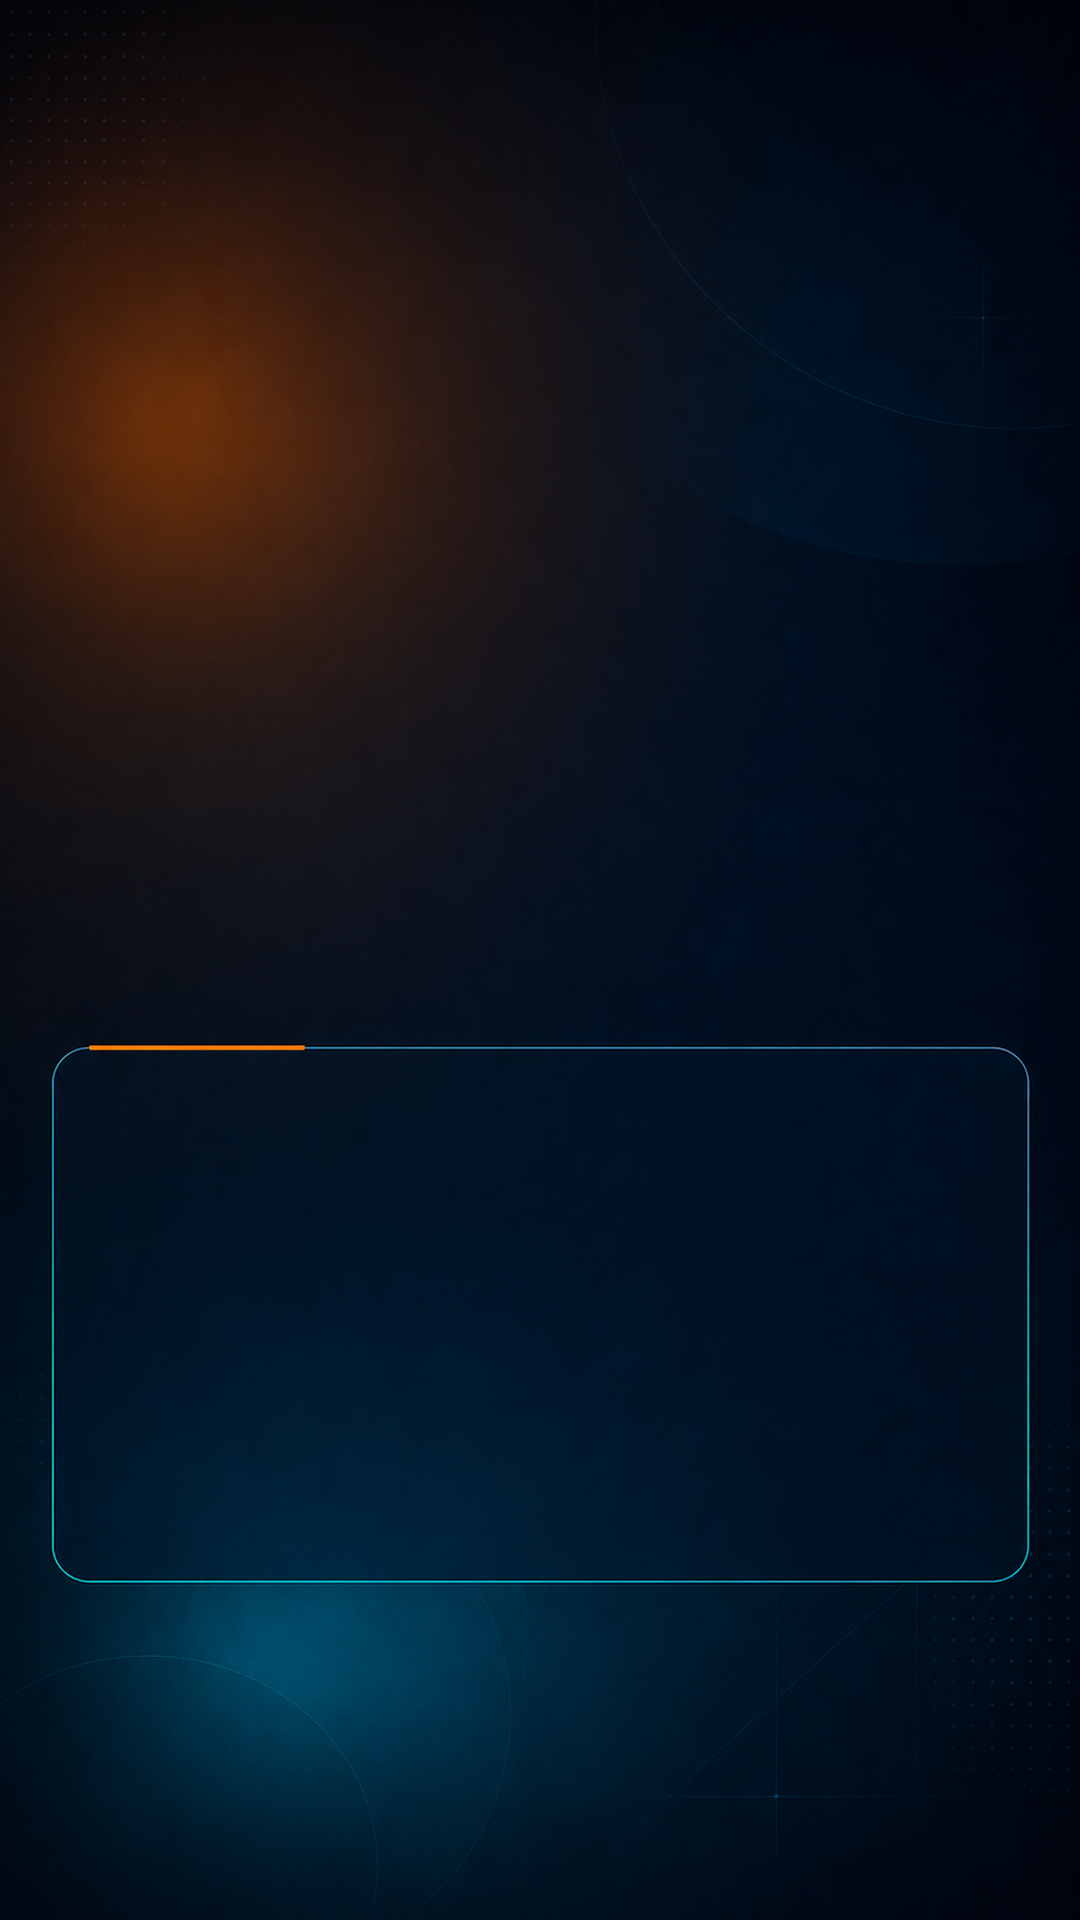
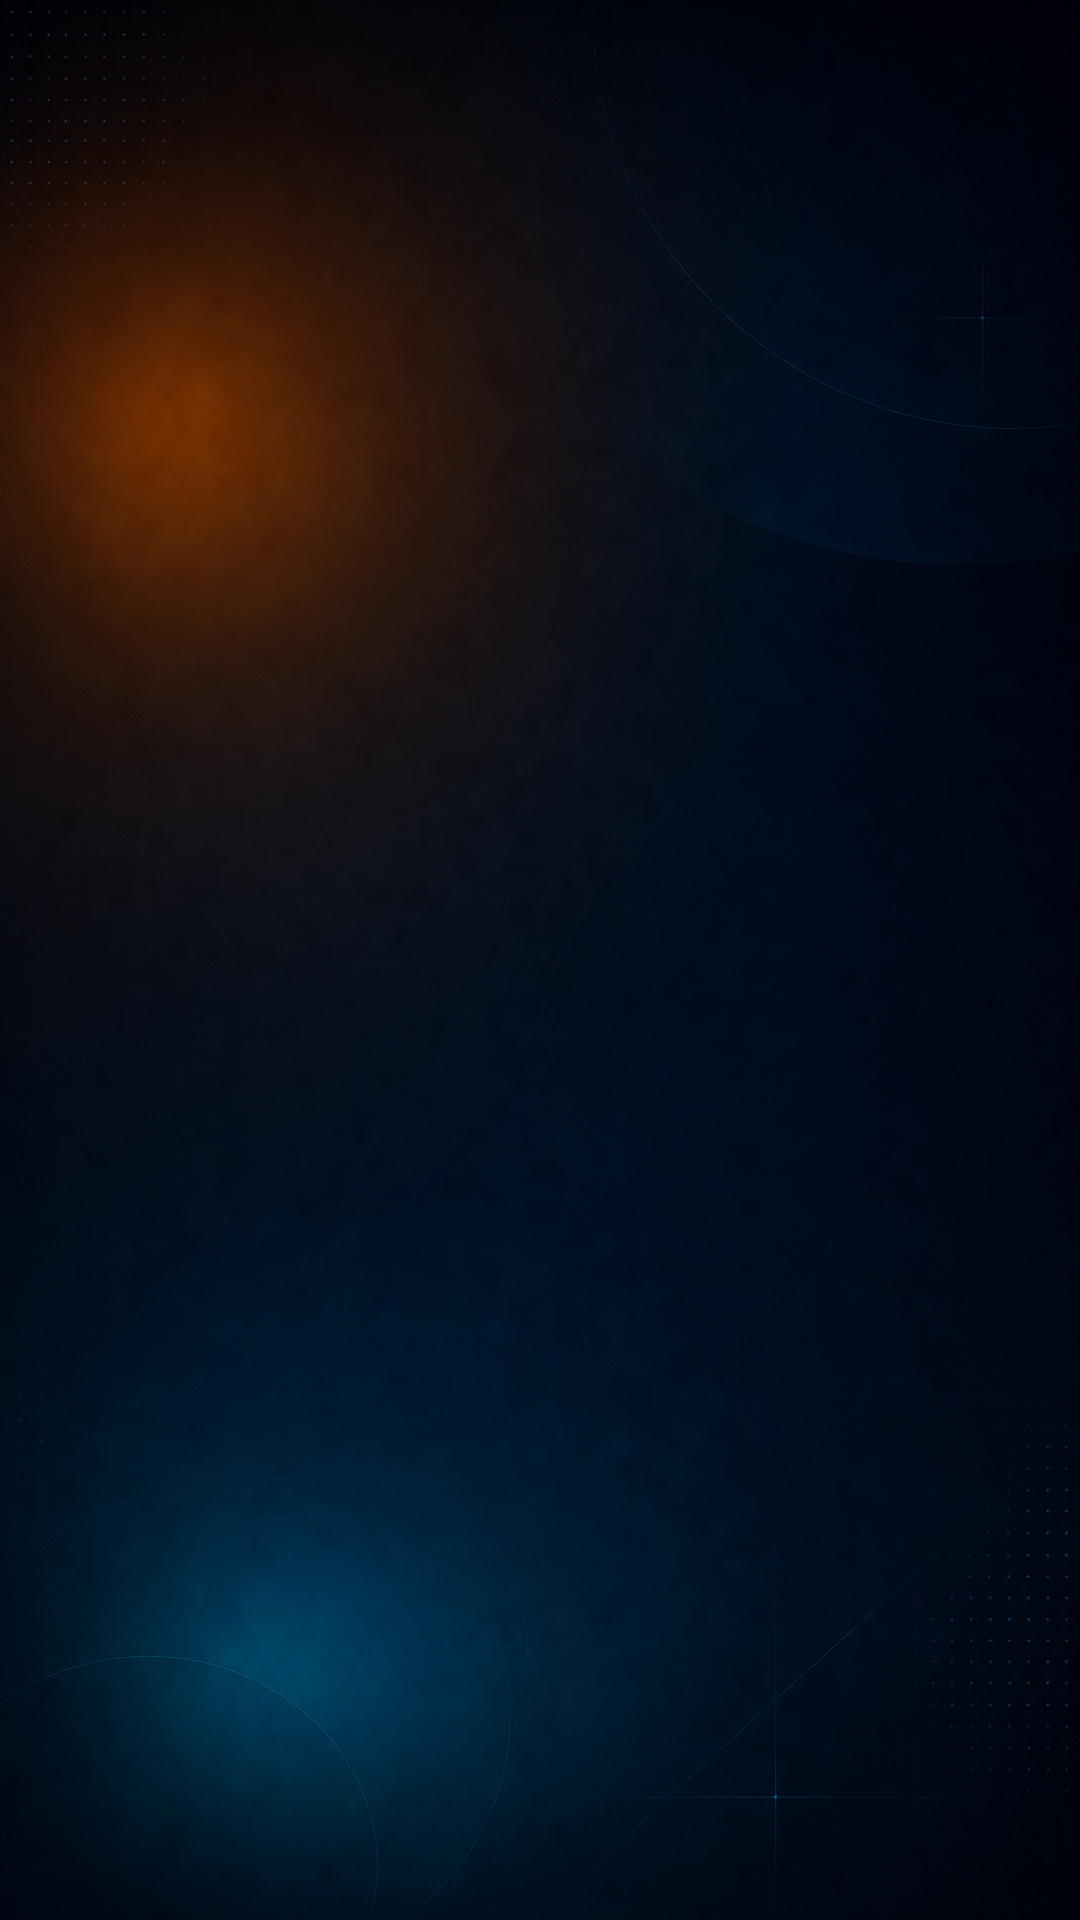
Restore original layout with top brand label

Changed region(s): [[0.0306, 0.6562, 0.0611, 0.8125], [0.9472, 0.75, 0.9778, 0.8125]]

diff --git a/src/mxh_publisher/services/media.py b/src/mxh_publisher/services/media.py
@@ -213,16 +213,17 @@ def _write_title_ass(path: Path, title: str, duration_seconds: float) -> None:
             "Alignment, MarginL, MarginR, MarginV, Encoding",
             "Style: Title,Anton,88,&H00FFFFFF,&H00FFFFFF,"
             "&H00000000,&H50000000,-1,0,0,0,100,100,0,0,1,3,1,8,55,55,0,1",
-            "Style: Brand,Anton,56,&H00FFFFFF,&H00FFFFFF,"
-            "&H00000000,&H50000000,-1,0,0,0,100,100,0,0,1,3,1,8,40,40,0,1",
+            "Style: Brand,Be Vietnam Pro SemiBold,30,&H00FFFFFF,&H00FFFFFF,"
+            "&H00000000,&H50000000,0,0,0,0,100,100,0,0,1,0,1,7,50,50,0,1",
             "",
             "[Events]",
             "Format: Layer, Start, End, Style, Name, MarginL, MarginR, MarginV, "
             "Effect, Text",
             f"Dialogue: 0,0:00:00.00,{end},Title,,0,0,0,,"
-            rf"{{\an8\pos(540,1100)\fs{title_font_size}}}{wrapped}",
+            rf"{{\an8\pos(540,1040)\fs{title_font_size}}}{wrapped}",
             f"Dialogue: 0,0:00:00.00,{end},Brand,,0,0,0,,"
-            r"{\an8\pos(540,1510)}Thầy Linh - Tuyển Thợ Mỏ",
+            r"{\an7\pos(60,70)}{\c&H00007AFF&}●{\c&H00FFFFFF&}"
+            r"  THẦY LINH - TUYỂN THỢ MỎ",
         ]
     )
     path.write_text(content, encoding="utf-8-sig")
@@ -545,7 +546,7 @@ def render_social_video(
             "title": " ".join(spec.title.split()),
             "size": "1080x1920",
             "fps": 30,
-            "layout": "standalone-dark-news-anton-sound-v13",
+            "layout": "standalone-dark-news-top-brand-sound-v14",
             "codec": "h264-aac-v2",
         },
         sort_keys=True,

diff --git a/src/mxh_video_editor/__init__.py b/src/mxh_video_editor/__init__.py
@@ -1,3 +1,3 @@
 """MXH Video Editor — ứng dụng dựng video dọc độc lập."""
 
-__version__ = "1.2.1"
+__version__ = "1.2.2"

diff --git a/src/mxh_video_editor/ui.py b/src/mxh_video_editor/ui.py
@@ -55,7 +55,7 @@ class VideoEditorWindow:
         self._active_items: tuple[BatchVideoItem, ...] = ()
         self.title_var.trace_add("write", self._on_title_changed)
 
-        root.title("MXH Video Editor v1.2.1")
+        root.title("MXH Video Editor v1.2.2")
         root.geometry("1080x820")
         root.minsize(900, 700)
         root.protocol("WM_DELETE_WINDOW", self.close)

diff --git a/tests/test_media.py b/tests/test_media.py
@@ -192,7 +192,7 @@ class MediaTests(unittest.TestCase):
     def test_default_frame_is_the_approved_dark_news_image(self) -> None:
         self.assertEqual(
             sha256_file(default_frame_path()),
[2 lines of base64/hex data omitted]
         )
 
     def test_project_title_is_split_like_the_reference_layout(self) -> None:

diff --git a/RELEASE_NOTES_VIDEO_EDITOR_V1.2.2.md b/RELEASE_NOTES_VIDEO_EDITOR_V1.2.2.md
@@ -1,0 +1,7 @@
+# MXH Video Editor v1.2.2
+
+- Bỏ khung viền lớn, đưa bố cục về video ở giữa và tiêu đề phía dưới.
+- Chuyển `THẦY LINH - TUYỂN THỢ MỎ` lên góc trên, trình bày nhỏ như ảnh mẫu.
+- Xóa hoàn toàn dòng thương hiệu ở phần dưới video.
+- Giữ nền xanh đen–cam sạch, không chứa sẵn chữ, logo hoặc giao diện mạng xã hội.
+- Giữ nguyên sửa nhiều video, cắt 6,2 giây đầu, 4 giây cuối và ẩn CMD.

diff --git a/docs/INSTALL_WINDOWS.md b/docs/INSTALL_WINDOWS.md
@@ -1,6 +1,6 @@
 # Cài và chạy MXH Video Editor trên Windows
 
-1. Tải `MXHVideoEditor-1.2.1-Windows-x64.zip`.
+1. Tải `MXHVideoEditor-1.2.2-Windows-x64.zip`.
 2. Kiểm tra SHA-256 nếu cần.
 3. Giải nén toàn bộ ZIP vào một thư mục mới.
 4. Mở thư mục `MXHVideoEditor` và chạy `MXHVideoEditor.exe`.